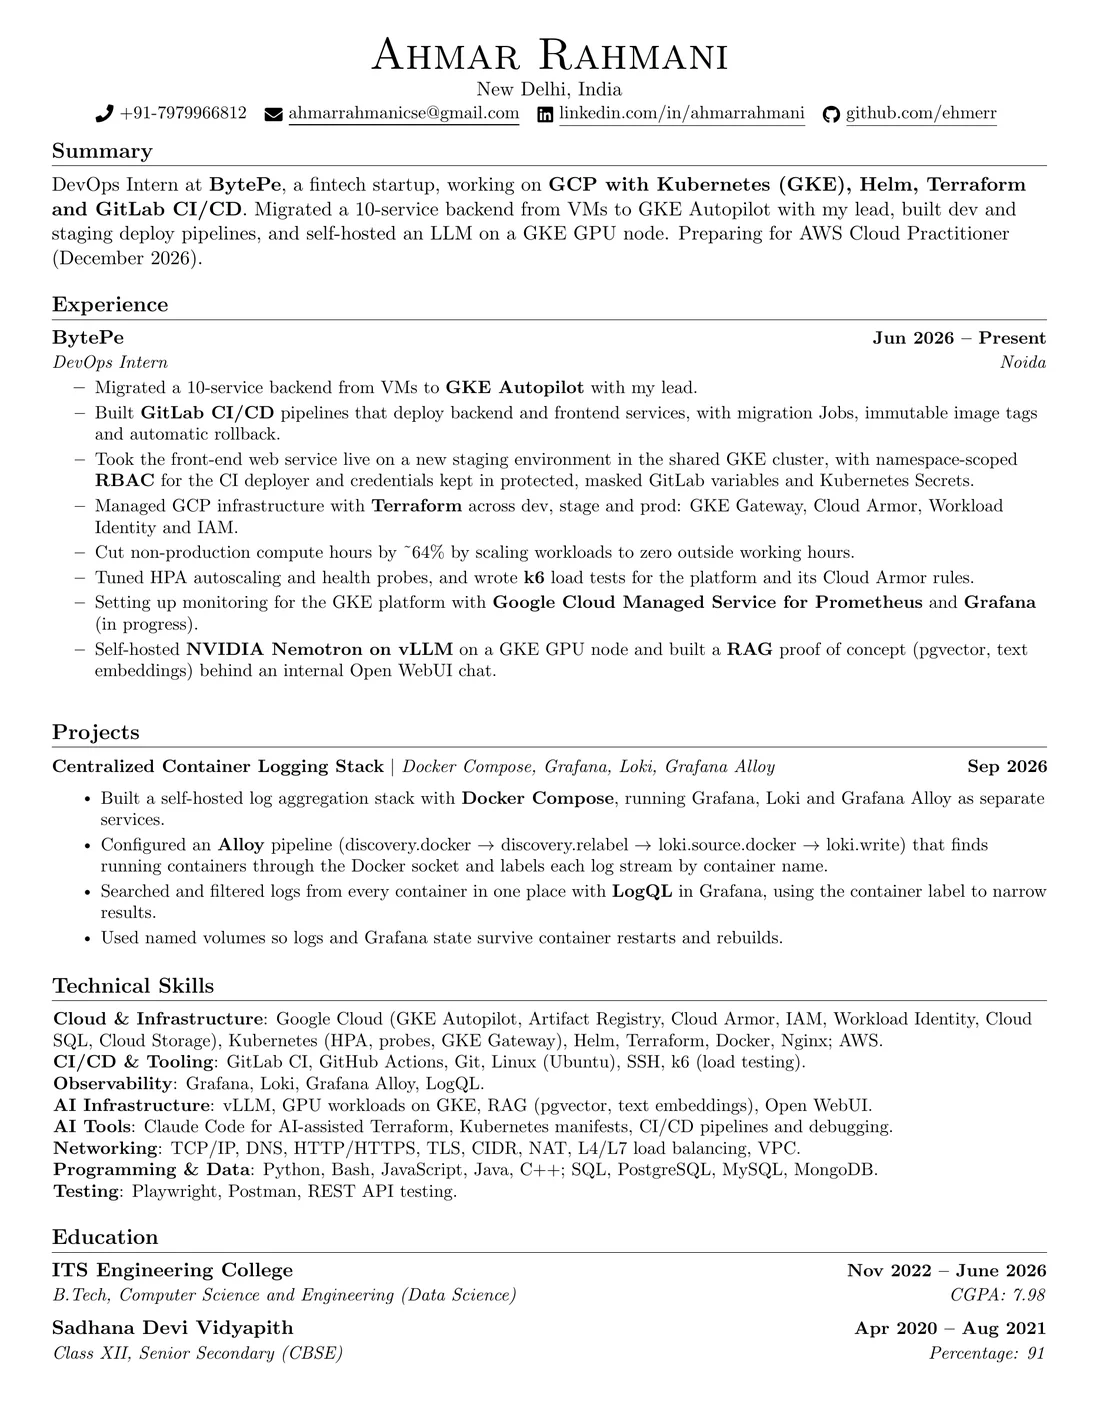
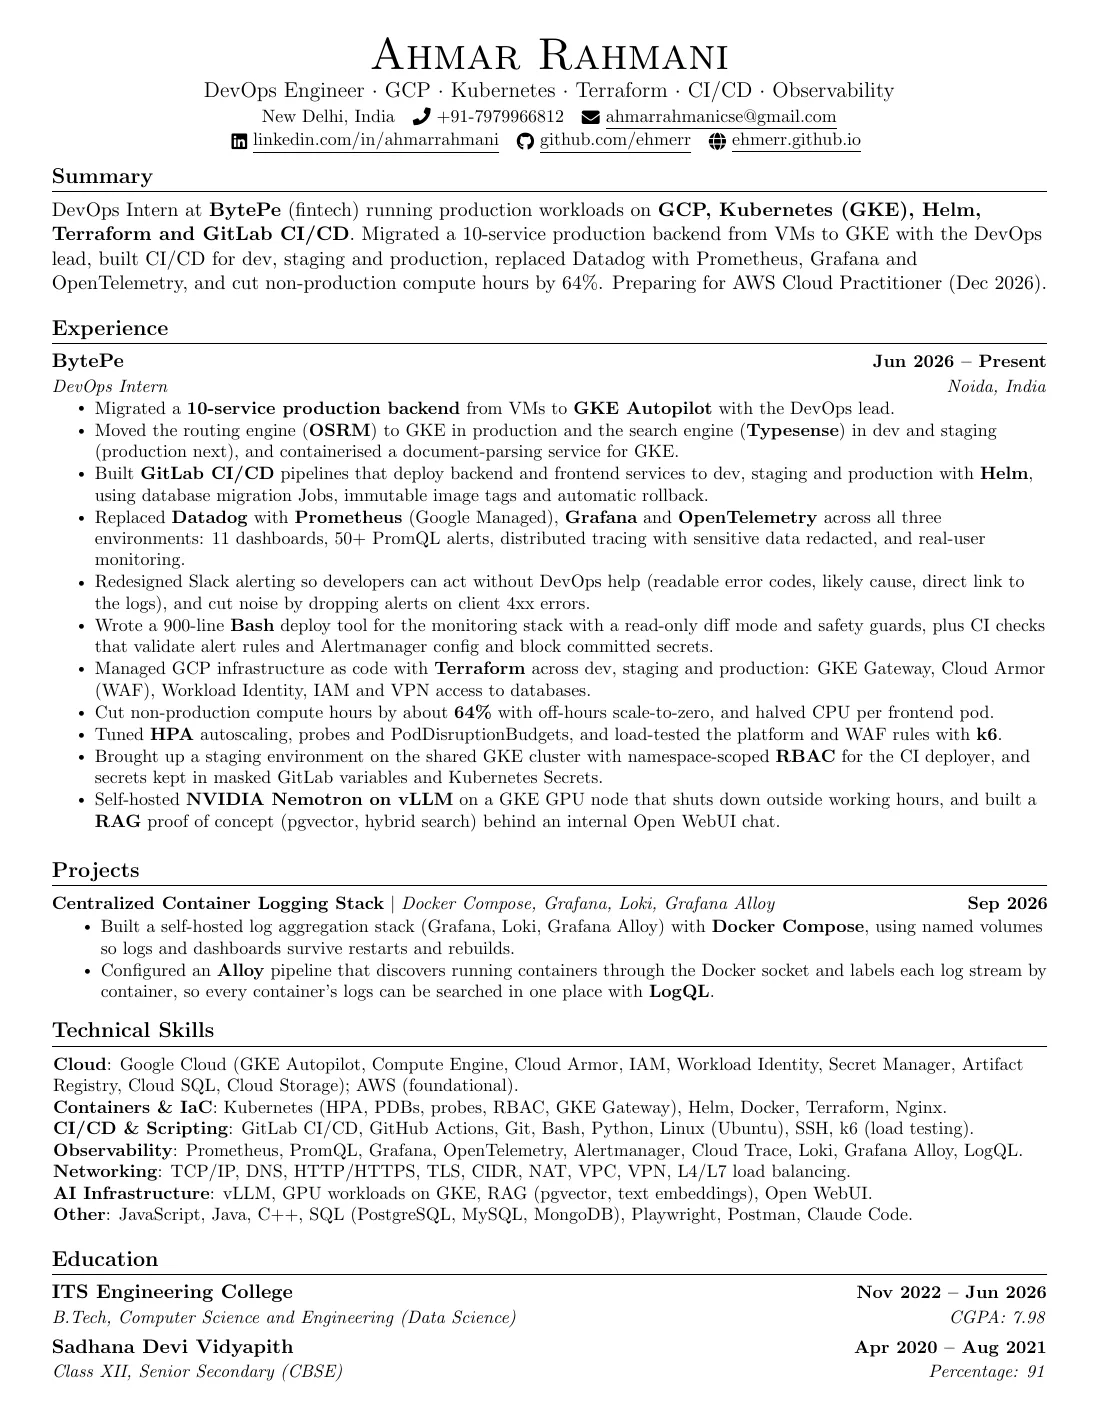
Add screenshot and image tools; refresh share card and resume preview
- npm run shots: builds, serves and screenshots every section on desktop
  and phone, plus first visit, no-JS, reduced motion, slow JS and 404;
  fails on browser console errors. Output in shots/ (gitignored).
- npm run images: redraws public/og.png (1200x630 card from content.yaml)
  and public/resume-preview.webp (page 1 of the resume PDF).
- og.png and resume-preview.webp regenerated from the November resume.

Changed region(s): [[0.0309, 0.0309, 0.9582, 0.9888], [0.8964, 0.8034, 0.9273, 0.8343]]

diff --git a/README.md b/README.md
@@ -43,7 +43,11 @@ content.yaml needs a fix:
   • line 101: experience › item 1 › title is missing or empty
 ```
 
-To swap the resume, put the new PDF in `public/` and update `resume.file` and `resume.updated`.
+To swap the resume, put the new PDF in `public/` and update `resume.file` and `resume.updated`,
+then run `npm run images` to redraw the resume thumbnail and the link-preview card (`public/og.png`).
+
+How the site looks in Google and link previews is under `seo:`; visitor stats are under `analytics:`
+(put your GoatCounter code there; only the live site counts visits).
 
 Game mechanics (timings, colours, pod counts) live in `src/data/*.js`; you shouldn't need to touch them.
 
@@ -52,9 +56,17 @@ Game mechanics (timings, colours, pod counts) live in `src/data/*.js`; you shoul
 ```bash
 npm run check           # renders every section and plays through the games in a simulated browser
 npm run check:reduced   # the same, with reduced motion switched on
+npm run shots           # desktop + phone screenshots of every section into shots/ (needs Playwright's Chromium)
+```
+
+One-time setup for `shots` and `images`:
+
+```bash
+npx playwright install chromium
+sudo apt-get install -y libnss3 libnspr4 libasound2t64 poppler-utils webp
 ```
 
 ## Deploy
 
-Pushing to `main` runs `.github/workflows/deploy.yml`, which builds with Vite and publishes `dist/`
-to GitHub Pages. In the repo settings, Pages → Source must be set to **GitHub Actions**.
+Pushing to `main` runs `.github/workflows/deploy.yml`, which builds (pre-rendering the page into
+`dist/index.html`), runs `npm run check`, and only then publishes `dist/` to GitHub Pages. In the repo settings, Pages → Source must be set to **GitHub Actions**.
